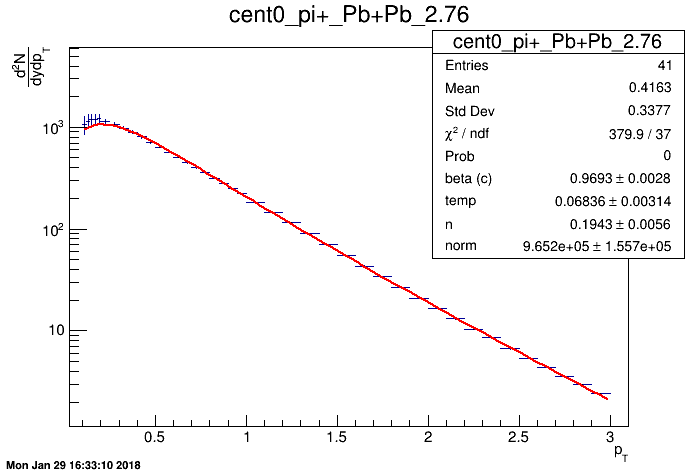
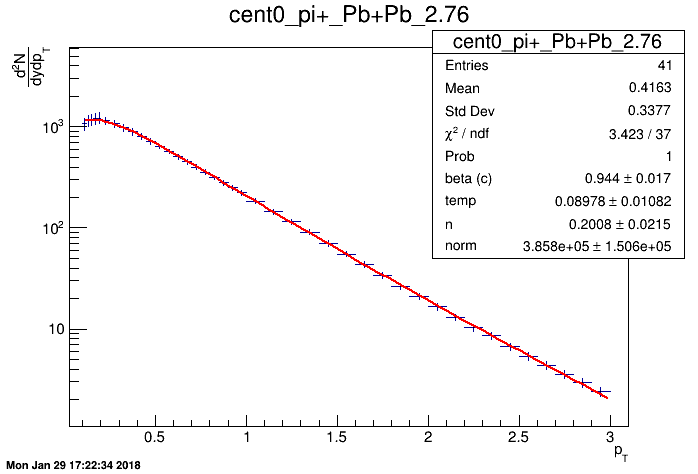
Scaled up errors by multiplying each error (stat. and sys.) with 2*pi*pT in order to have good fits procuded

diff --git a/ALICE2013ToRootFile_trans.cpp b/ALICE2013ToRootFile_trans.cpp
@@ -110,7 +110,11 @@ nested loop structure:
 							binContent[j-1]*2*TMath::Pi()*
 							(binEdgesVec[j-1]+0.5*(binEdgesVec[j]-binEdgesVec[j-1])));
 				// ^ (data y-value multiplied by 2pi// not:*pt; pt = ptLow+0.5 of binWidth)
-				
+				//transform errors:
+				binContentErrStat[j-1] = binContentErrStat[j-1]*2*TMath::Pi()*
+							(binEdgesVec[j-1]+0.5*(binEdgesVec[j]-binEdgesVec[j-1]));
+				binContentErrSys[j-1] = binContentErrSys[j-1]*2*TMath::Pi()*
+							(binEdgesVec[j-1]+0.5*(binEdgesVec[j]-binEdgesVec[j-1]));
 				// add errors in quadrature:
 				h->SetBinError(j,TMath::Sqrt(binContentErrStat[j-1]*binContentErrStat[j-1]
 								+binContentErrSys[j-1]*binContentErrSys[j-1]));
